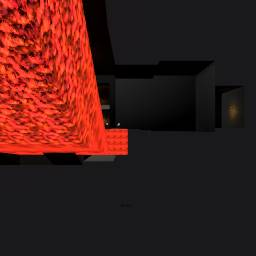
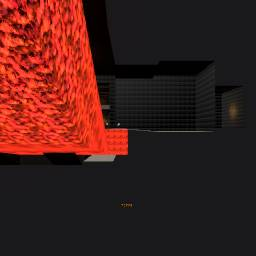
normal recoil

Changed region(s): [[0.4375, 0.5, 0.8125, 0.5312], [0.3125, 0.5938, 0.4688, 0.6562], [0.4688, 0.7812, 0.5312, 0.8125]]

diff --git a/code/player/PlayerController.cs b/code/player/PlayerController.cs
@@ -2,6 +2,7 @@ using System;
 using System.Collections.Generic;
 using System.Diagnostics.Tracing;
 using System.Linq;
+using System.Threading.Tasks;
 using System.Security.Permissions;
 using GeneralGame.HUD;
 using Sandbox;
@@ -292,7 +293,25 @@ public partial class Player : Component, IHealthComponent
 
 	private int currentRecoilIndex = 0;
 	private float recoilResetSpeed = 5f; // Geschwindigkeit, mit der das Recoil zurückgesetzt wird
+	private async void ApplyCameraShake( float intensity, float duration )
+	{
+		if ( IsProxy ) return;
 
+		var shakeEndTime = Time.Now + duration;
+
+		while ( Time.Now < shakeEndTime )
+		{
+			var shakeOffset = new Angles(
+				Game.Random.Float( -intensity, intensity ), // Pitch
+				Game.Random.Float( -intensity, intensity ), // Yaw
+				0f // Roll bleibt unverändert
+			);
+
+			PlyCamera.WorldRotation *= Rotation.From( shakeOffset );
+
+			await Task.Delay( 7 ); // ~144 FPS
+		}
+	}
 
 	[Rpc.Broadcast]
 	public void ApplyRecoil( Angles recoil )
@@ -309,6 +328,7 @@ public partial class Player : Component, IHealthComponent
 		{
 			currentRecoilIndex = 0; // Zurücksetzen, wenn das Muster endet
 		}
+		ApplyCameraShake( 0.14f, 0.225f ); // Intensität und Dauer anpassen
 	}
 
 	public void ResetViewAngles()

diff --git a/code/weapons/WeaponComponent.cs b/code/weapons/WeaponComponent.cs
@@ -12,6 +12,9 @@ public enum WeaponType
 	M4A1,
 	AK,
 	MP5,
+	Shotgun,
+	Pistole,
+	Deagle,
 
 }
 
@@ -20,7 +23,7 @@ public class WeaponComponent : Component
 {
 
 	
-	public WeaponType WeaponType { get; set; }
+	[Property]public WeaponType WeaponType { get; set; }
 	
 	[Property] public string DisplayName { get; set; }
 	[Property, Category( "Weapon Properties" )] public float DeployTime { get; set; } = 0.5f;
